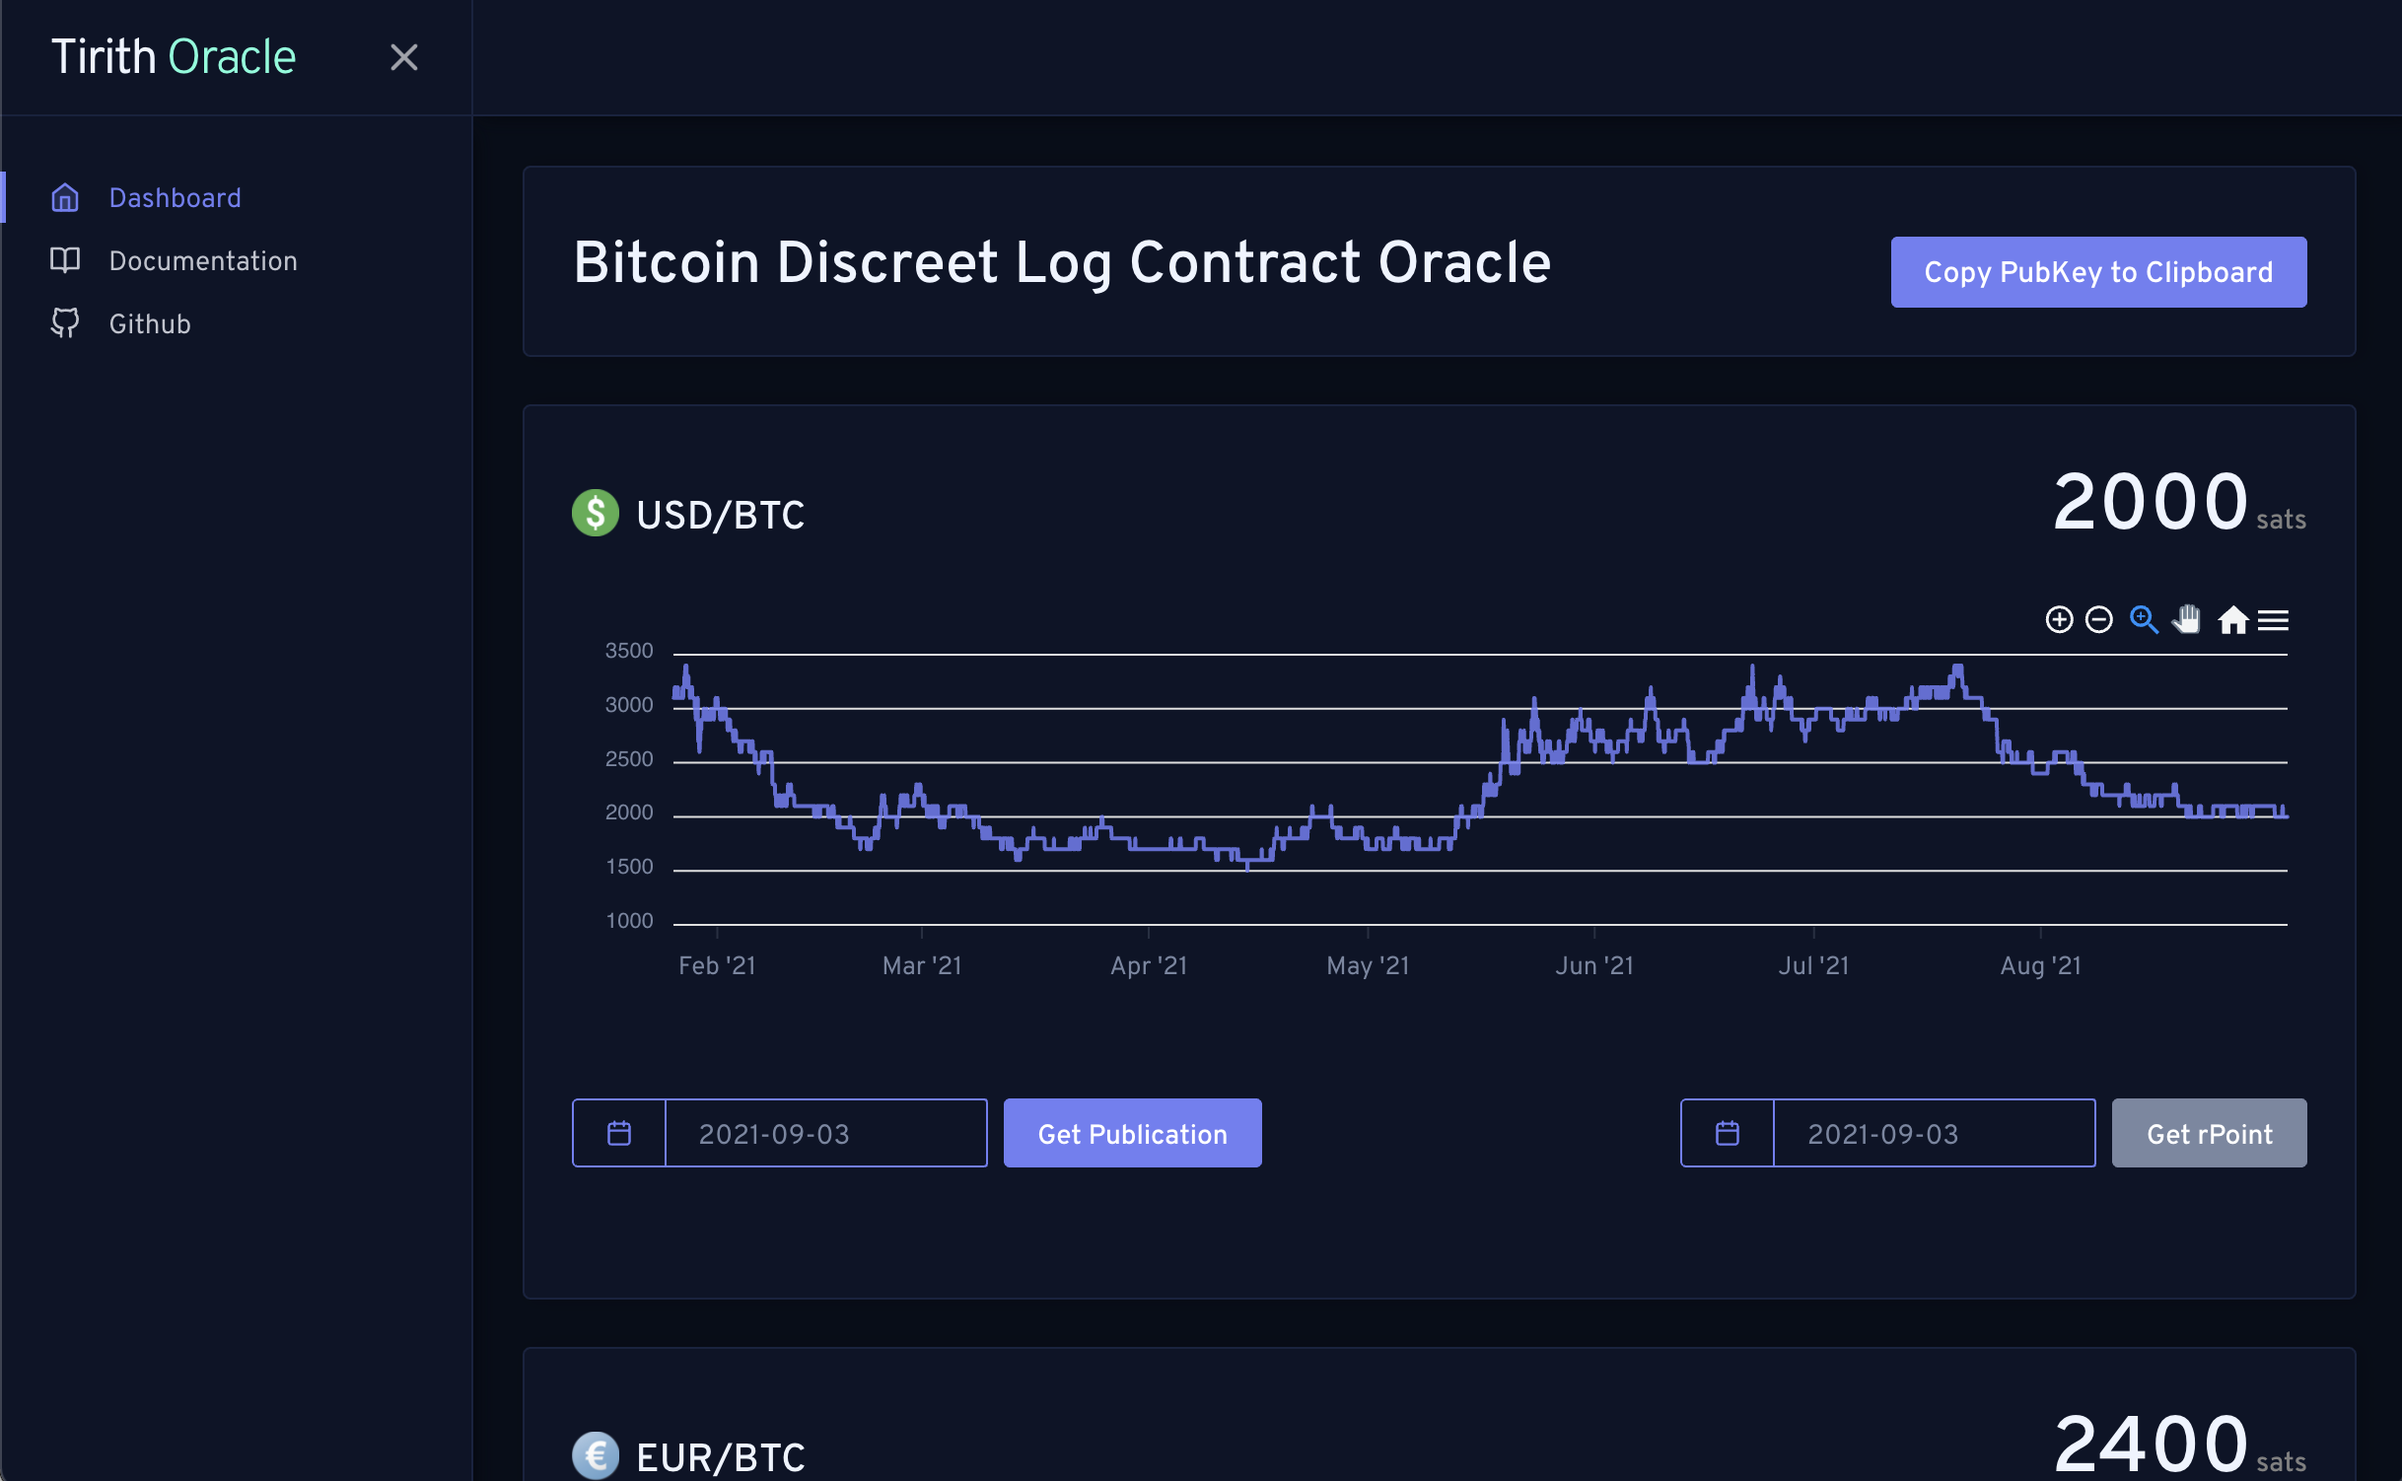
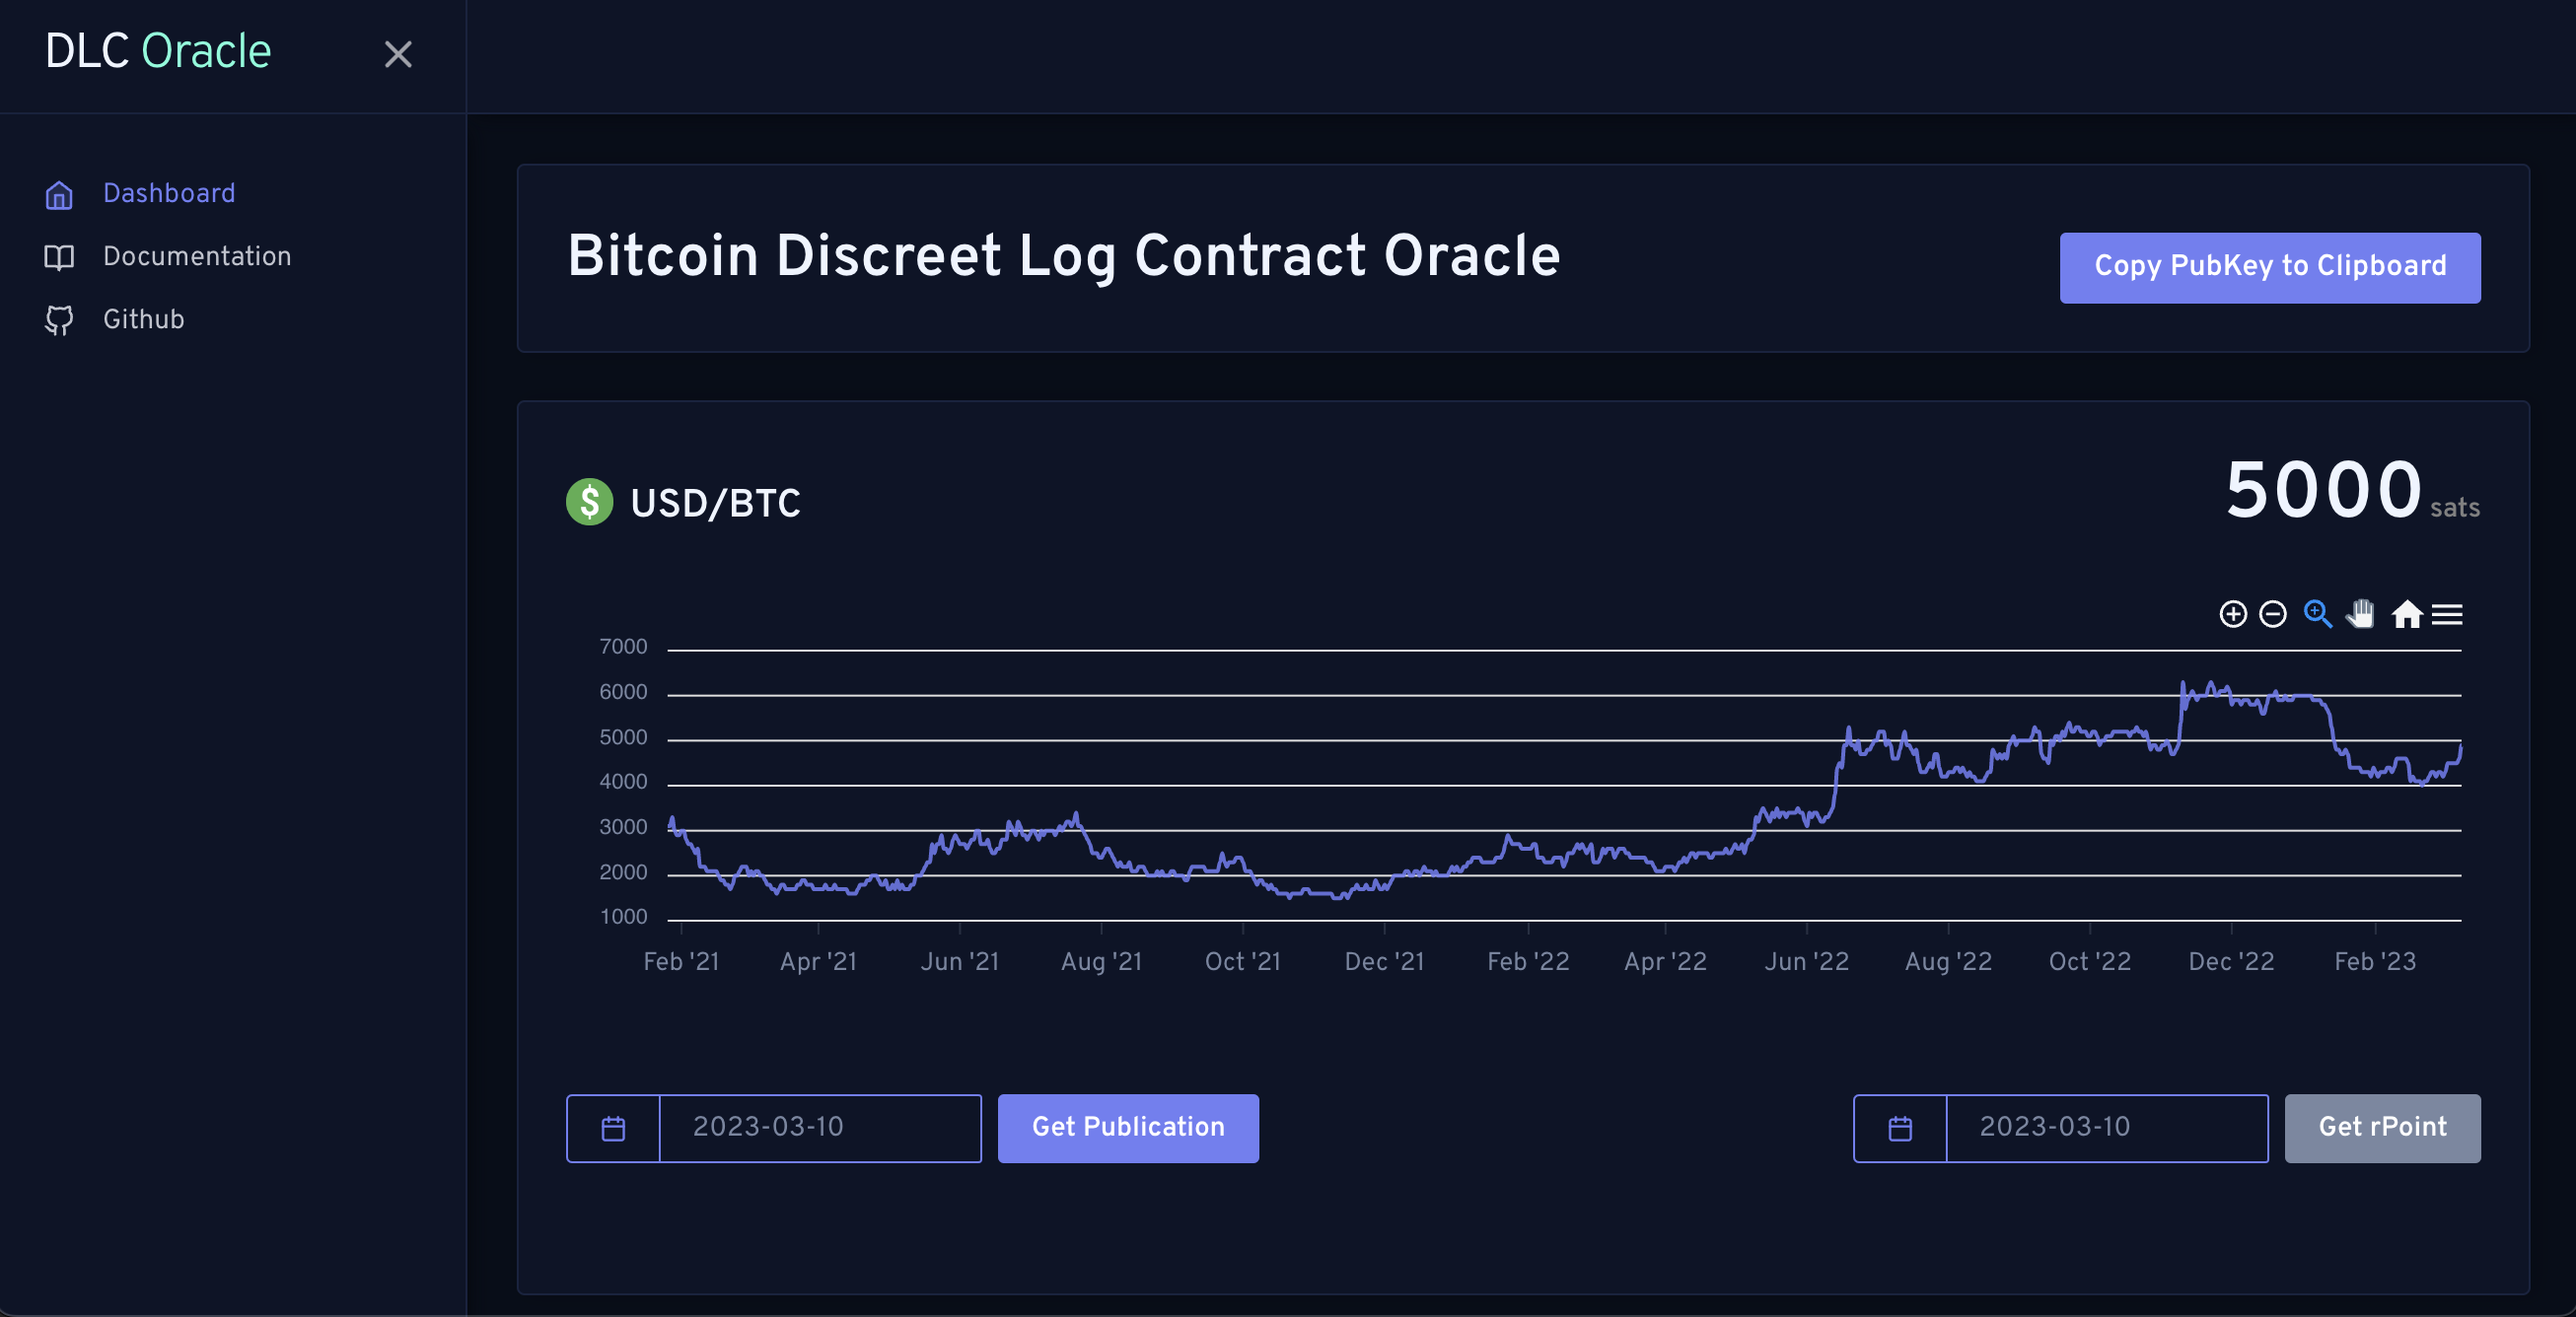
portfolio updates

diff --git a/index.html b/index.html
@@ -248,27 +248,6 @@
                   </div>
                 </div>
               </div>
-              <!-- single portfolio -->
-            </div>
-            <div class="col-lg-4 col-sm-6 completed-4">
-              <div class="single-portfolio">
-                <div class="portfolio-image">
-                  <img src="assets/images/portfolio/2.png" alt="">
-                  <div class="portfolio-overlay d-flex align-items-center justify-content-center">
-                    <div class="portfolio-content">
-                      <div class="portfolio-icon">
-                        <a class="image-popup" href="assets/images/portfolio/2.png"><i class="lni lni-zoom-in"></i></a>
-                        <img src="assets/images/portfolio/shape.svg" alt="shape" class="shape">
-                      </div>
-                      <div class="portfolio-icon">
-                        <a href="https://coincube.io/" target="_blank"><i class="lni lni-link"></i></a>
-                        <img src="assets/images/portfolio/shape.svg" alt="shape" class="shape">
-                      </div>
-                    </div>
-                  </div>
-                </div>
-              </div>
-              <!-- single portfolio -->
             </div>
             <div class="col-lg-4 col-sm-6 completed-4">
               <div class="single-portfolio">
@@ -288,7 +267,6 @@
                   </div>
                 </div>
               </div>
-              <!-- single portfolio -->
             </div>
             <div class="col-lg-4 col-sm-6 development-4">
               <div class="single-portfolio">
@@ -301,14 +279,13 @@
                         <img src="assets/images/portfolio/shape.svg" alt="shape" class="shape">
                       </div>
                       <div class="portfolio-icon">
-                        <a href="https://tirith.io/dashboard" target="_blank"><i class="lni lni-link"></i></a>
+                        <a href="https://discreetlogcontract.tech/dashboard" target="_blank"><i class="lni lni-link"></i></a>
                         <img src="assets/images/portfolio/shape.svg" alt="shape" class="shape">
                       </div>
                     </div>
                   </div>
                 </div>
               </div>
-              <!-- single portfolio -->
             </div>
             <div class="col-lg-4 col-sm-6 development-4">
               <div class="single-portfolio">
@@ -328,7 +305,6 @@
                   </div>
                 </div>
               </div>
-              <!-- single portfolio -->
             </div>
           </div>
           <!-- row -->
